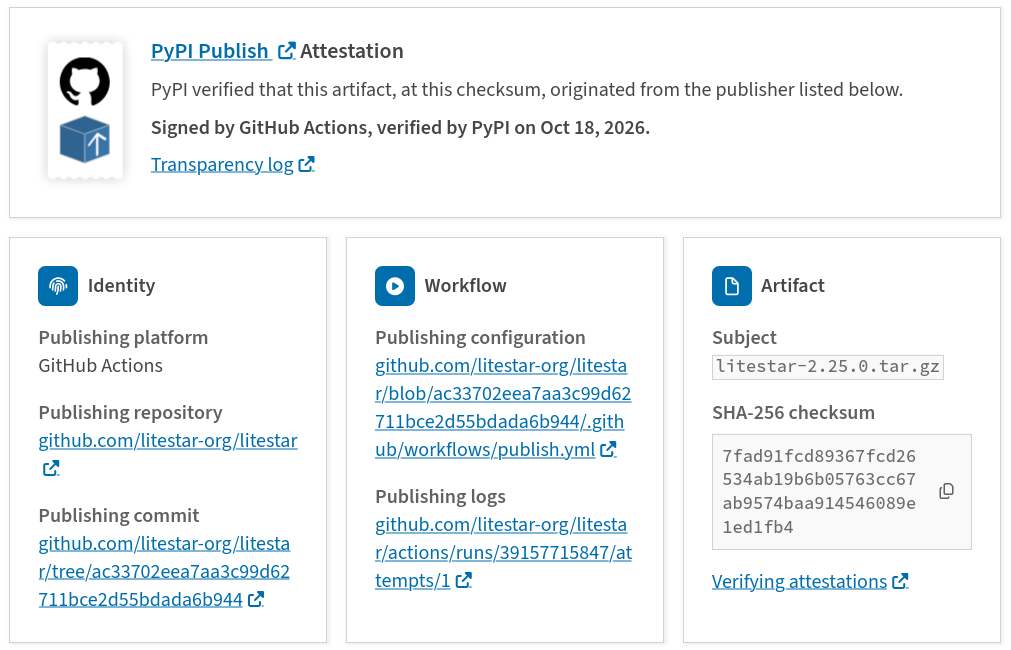
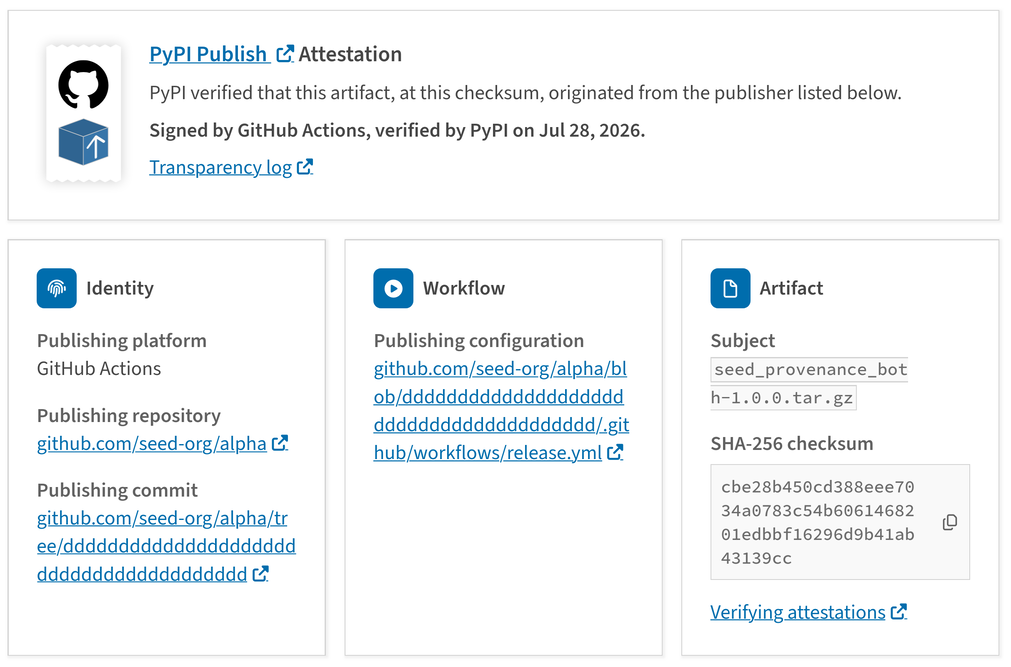
Use mock data for provenance and metadata screenshots

diff --git a/docs/blog/posts/2026-11-06-ui-updates-complete.md b/docs/blog/posts/2026-11-06-ui-updates-complete.md
@@ -50,14 +50,14 @@ This means that 100% of the release files have attestations, carrying either or 
 
 <figure markdown="1">
   ![A PyPI Publish attestation on PyPI](../assets/2026-11-06-ui-updates-complete/pypi-attestation.png)
-  <figcaption markdown="span">A [PyPI Publish attestation](https://docs.pypi.org/attestations/publish/v1/) on PyPI</figcaption>
+  <figcaption markdown="span">An example [PyPI Publish attestation](https://docs.pypi.org/attestations/publish/v1/) on PyPI</figcaption>
 </figure>
 
 **[SLSA Build Provenance](https://slsa.dev/spec/v1.2/build-provenance) attestations** link the file back to its exact source commit, build platform, and instructions:
 
 <figure markdown="1">
   ![A SLSA Build Provenance attestation on PyPI](../assets/2026-11-06-ui-updates-complete/slsa-attestation.png)
-  <figcaption markdown="span">A [SLSA Build Provenance attestation](https://slsa.dev/spec/v1.2/build-provenance) on PyPI</figcaption>
+  <figcaption markdown="span">An example [SLSA Build Provenance attestation](https://slsa.dev/spec/v1.2/build-provenance) on PyPI</figcaption>
 </figure>
 
 You can review attestation metadata directly in the UI, or click on the transparency log link for more information.

diff --git a/docs/user/using-pypi/package-security/provenance.md b/docs/user/using-pypi/package-security/provenance.md
@@ -45,7 +45,7 @@ Currently, the majority of attestations on PyPI are PyPI publish attestations. T
 
 <figure markdown="1">
   ![A PyPI publish attestation on PyPI](../../assets/pypi-attestation.png){ loading=lazy }
-  <figcaption markdown="span">A [PyPI Publish attestation](../../attestations/publish/v1.md) on PyPI</figcaption>
+  <figcaption markdown="span">An example [PyPI Publish attestation](../../attestations/publish/v1.md) on PyPI</figcaption>
 </figure>
 
 ### 2. [SLSA attestations](https://slsa.dev/provenance/v1)
@@ -54,7 +54,7 @@ An attestation and associated transparency log, signed by the build platform (e.
 
 <figure markdown="1">
   ![A SLSA attestation on PyPI](../../assets/slsa-attestation.png){ loading=lazy }
-  <figcaption markdown="span">A [SLSA Build Provenance attestation](https://slsa.dev/spec/v1.2/build-provenance) on PyPI</figcaption>
+  <figcaption markdown="span">An example [SLSA Build Provenance attestation](https://slsa.dev/spec/v1.2/build-provenance) on PyPI</figcaption>
 </figure>
 
 ## Verifying attestations
